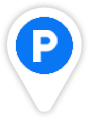
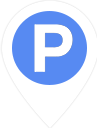
支持自定义地点Marker、地点类型排序

diff --git a/src/pages/index/index.ts b/src/pages/index/index.ts
@@ -154,11 +154,18 @@ Page({
       for (const j of i.data) {
         j.id = num;
         num += 1;
-        j.iconPath = `../../assets/images/markers/${i.icon}.png`;
-        j.width = 35;
-        j.height = 35;
-        j.width = app.globalData.config.markerStyle.width;
-        j.height = app.globalData.config.markerStyle.height;
+        j.iconPath = `/assets/images/markers/${j.icon ? j.icon : i.icon}.png`;
+        if (j.icon) {
+          let scale =
+            j.icon.indexOf("@") !== -1
+              ? j.icon.slice(j.icon.indexOf("@") + 1)
+              : 1;
+          j.width = app.globalData.config.markerStyle.width * scale;
+          j.height = app.globalData.config.markerStyle.height * scale;
+        } else {
+          j.width = app.globalData.config.markerStyle.width;
+          j.height = app.globalData.config.markerStyle.height;
+        }
         j.callout = Object.assign(
           { content: j.short_name ? j.short_name : j.name },
           app.globalData.config.markerStyle.calloutStyle
@@ -175,19 +182,36 @@ Page({
     } else {
       // 云
       await wx.cloud
-        .database()
-        .collection("markers")
-        .get()
-        .then((res: { data: any[] }) => {
-          markers = res.data;
+        .callFunction({
+          name: "loadMarkers"
+        })
+        .then((res: any) => {
+          markers = res.result.data;
         });
     }
-    markers = this.clearMarkers(markers);
+    markers = this.clearMarkers(this.sortMarkers(markers));
     app.globalData.markers = markers;
     this.setData!({
       markers: markers[this.data.catIndex].data,
       allMarkers: markers
     });
+  },
+  sortMarkers(markers: any) {
+    if (markers.length <= 1) {
+      return markers;
+    }
+    var pivotIndex = Math.floor(markers.length / 2);
+    var pivot = markers.splice(pivotIndex, 1)[0];
+    var left = [];
+    var right = [];
+    for (var i = 0; i < markers.length; i++) {
+      if (markers[i].position < pivot.position) {
+        left.push(markers[i]);
+      } else {
+        right.push(markers[i]);
+      }
+    }
+    return this.sortMarkers(left).concat([pivot], this.sortMarkers(right));
   },
   onReady() {
     this.setData!({

diff --git a/cloudfunctions/loadComments/index.js b/cloudfunctions/loadComments/index.js
@@ -1,0 +1,36 @@
+// 云函数入口文件
+const cloud = require("wx-server-sdk");
+
+cloud.init();
+const db = cloud.database();
+const _ = db.command;
+const MAX_LIMIT = 100;
+
+// 云函数入口函数
+exports.main = async (event, context) => {
+  // 先取出集合记录总数
+  const countResult = await db.collection("comments").count();
+  const total = countResult.total;
+  // 计算需分几次取
+  const batchTimes = Math.ceil(total / 100);
+  // 承载所有读操作的 promise 的数组
+  const tasks = [];
+  for (let i = 0; i < batchTimes; i++) {
+    const promise = db
+      .collection("comments")
+      .where({
+        status: _.neq(1)
+      })
+      .skip(i * MAX_LIMIT)
+      .limit(MAX_LIMIT)
+      .get();
+    tasks.push(promise);
+  }
+  // 等待所有
+  return (await Promise.all(tasks)).reduce((acc, cur) => {
+    return {
+      data: acc.data.concat(cur.data),
+      errMsg: acc.errMsg
+    };
+  });
+};

diff --git a/cloudfunctions/loadMarkers/index.js b/cloudfunctions/loadMarkers/index.js
@@ -1,0 +1,33 @@
+// 云函数入口文件
+const cloud = require("wx-server-sdk");
+
+cloud.init();
+const db = cloud.database();
+const _ = db.command;
+const MAX_LIMIT = 100;
+
+// 云函数入口函数
+exports.main = async (event, context) => {
+  // 先取出集合记录总数
+  const countResult = await db.collection("markers").count();
+  const total = countResult.total;
+  // 计算需分几次取
+  const batchTimes = Math.ceil(total / 100);
+  // 承载所有读操作的 promise 的数组
+  const tasks = [];
+  for (let i = 0; i < batchTimes; i++) {
+    const promise = db
+      .collection("markers")
+      .skip(i * MAX_LIMIT)
+      .limit(MAX_LIMIT)
+      .get();
+    tasks.push(promise);
+  }
+  // 等待所有
+  return (await Promise.all(tasks)).reduce((acc, cur) => {
+    return {
+      data: acc.data.concat(cur.data),
+      errMsg: acc.errMsg
+    };
+  });
+};

diff --git a/src/config/markerStyle.ts b/src/config/markerStyle.ts
@@ -1,12 +1,12 @@
 export default {
-  width: 28,
-  height: 36,
+  width: 26,
+  height: 34,
   calloutStyle: {
     display: "ALWAYS",
     bgColor: "#ffffff",
     borderRadius: 3,
     fontSize: 9,
-    padding: 3
+    padding: 6
   },
   polylineStyle: {
     color: "#FFFFFF",

diff --git a/src/config/index.ts b/src/config/index.ts
@@ -4,7 +4,7 @@ import panorama from "./panorama";
 import { key } from "./secret";
 
 export const config: any = {
-  debug: true,
+  debug: false,
   version: "1.0.0",
   markerStyle,
   cloud,
